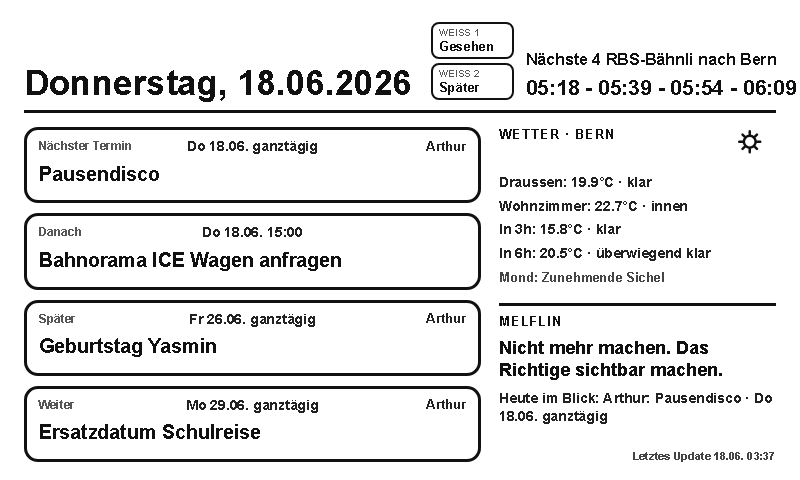
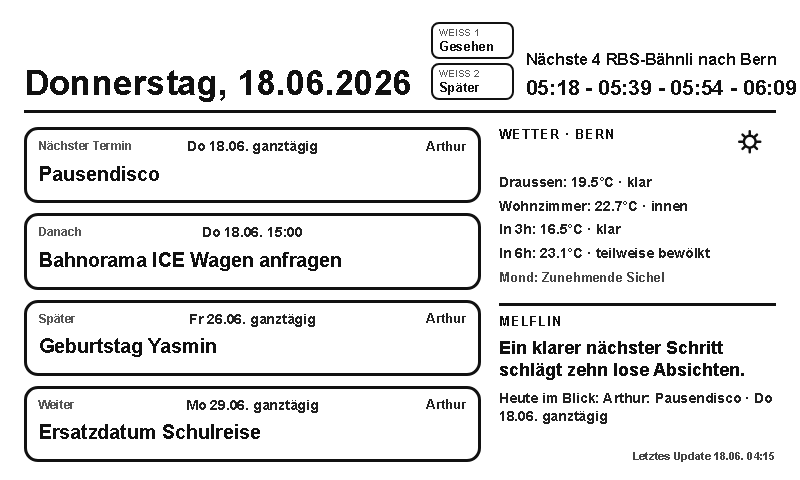
Refresh published display pages

Changed region(s): [[0.625, 0.6875, 0.9375, 0.8125], [0.75, 0.5, 0.875, 0.5625], [0.9375, 0.9375, 0.9688, 0.9688]]

diff --git a/static/melflin-display/index.html b/static/melflin-display/index.html
@@ -103,17 +103,17 @@
       <div class='side'>
         <div class='panel panel-weather'>
           <div class='panel-head'><h2>Wetter · Bern</h2><div class='weather-icons'><div class='weather-icon' aria-label='Wetter'><svg viewBox='0 0 64 64' aria-hidden='true'><g fill='none' stroke='#111' stroke-width='3.8' stroke-linecap='round' stroke-linejoin='round'><circle cx='24' cy='24' r='9'/><path d='M24 8v6M24 34v6M8 24h6M34 24h6M13 13l4 4M31 31l4 4M13 35l4-4M31 17l4-4'/></g></svg></div></div></div>
-          <div class='subline'>Draussen: 19.9°C · klar</div><div class='subline'>Wohnzimmer: 22.7°C · innen</div><div class='subline'>In 3h: 15.8°C · klar</div><div class='subline'>In 6h: 20.5°C · überwiegend klar</div>
+          <div class='subline'>Draussen: 19.5°C · klar</div><div class='subline'>Wohnzimmer: 22.7°C · innen</div><div class='subline'>In 3h: 16.5°C · klar</div><div class='subline'>In 6h: 23.1°C · teilweise bewölkt</div>
           <div class='subline subline-moon'>Mond: Zunehmende Sichel</div>
         </div>
         <div class='panel'>
           <h2>Melflin</h2>
-          <div class='note'>Nicht mehr machen. Das Richtige sichtbar machen.</div>
+          <div class='note'>Ein klarer nächster Schritt schlägt zehn lose Absichten.</div>
           <div class='note-secondary'>Heute im Blick: Arthur: Pausendisco · Do 18.06. ganztägig</div>
         </div>
       </div>
     </div>
-    <div class='update-stamp'>Letztes Update 18.06. 03:37</div>
+    <div class='update-stamp'>Letztes Update 18.06. 04:15</div>
   </div>
   <script>
     (() => {

diff --git a/public/melflin-display/family/index.html b/public/melflin-display/family/index.html
@@ -105,7 +105,7 @@
         </div>
         </div>
     </div>
-    <div class='update'>Letztes Update 18.06. 03:37</div>
+    <div class='update'>Letztes Update 18.06. 04:15</div>
   </div>
 </body>
 </html>

diff --git a/static/melflin-display/family.html b/static/melflin-display/family.html
@@ -105,7 +105,7 @@
         </div>
         </div>
     </div>
-    <div class='update'>Letztes Update 18.06. 03:37</div>
+    <div class='update'>Letztes Update 18.06. 04:15</div>
   </div>
 </body>
 </html>

diff --git a/static/melflin-display/family/index.html b/static/melflin-display/family/index.html
@@ -105,7 +105,7 @@
         </div>
         </div>
     </div>
-    <div class='update'>Letztes Update 18.06. 03:37</div>
+    <div class='update'>Letztes Update 18.06. 04:15</div>
   </div>
 </body>
 </html>